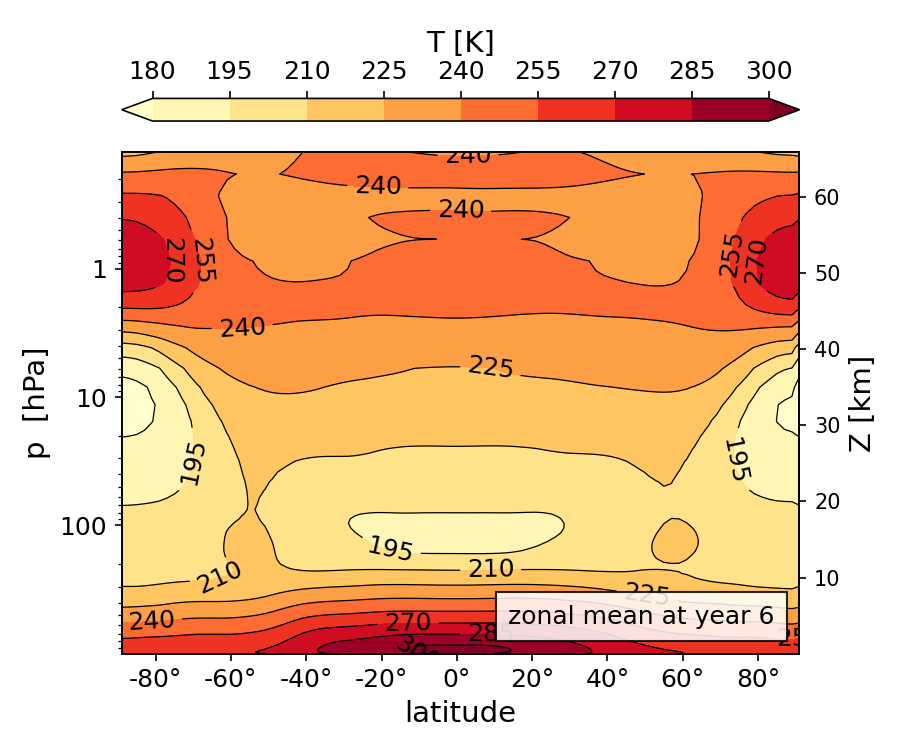
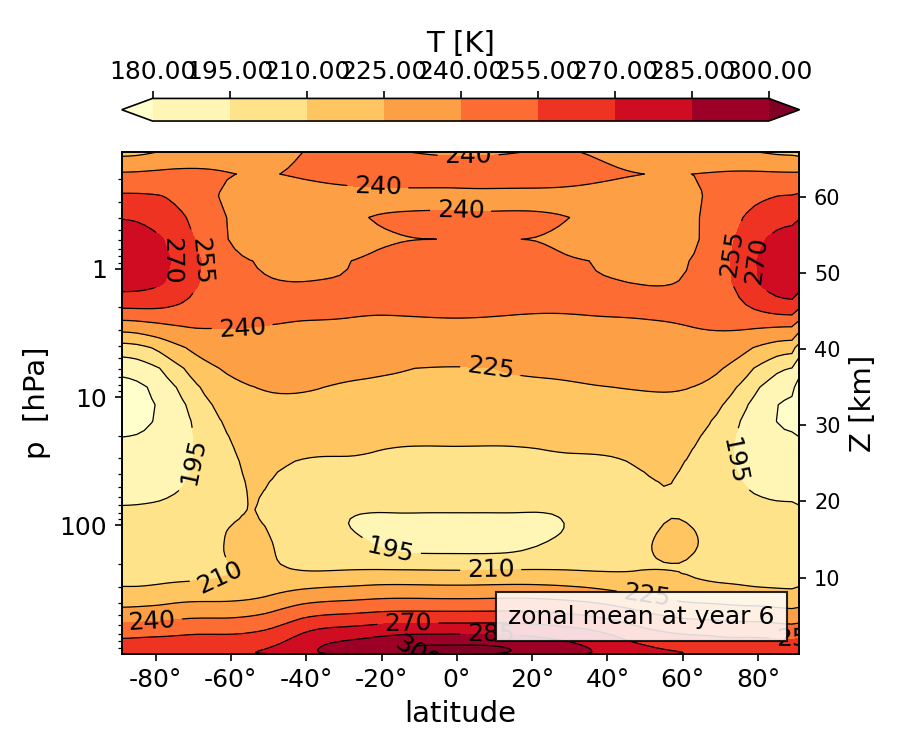
new figs for HSW circulation mean

Changed region(s): [[0.1244, 0.0613, 0.9022, 0.1227]]

diff --git a/CLDERA/SAI/analysis/circulation.py b/CLDERA/SAI/analysis/circulation.py
@@ -76,11 +76,11 @@ def circulation_snapshot(runf, tsnap, title, ttitle=None, maketitle=True,
 
     # ---------- plot ----------
     data_crs = ccrs.PlateCarree()
-    Tlev = np.linspace(180, 300, 9)
+    Tlev = np.linspace(180, 300, 9).astype(int)
     
     #uleva = np.arange(0, np.max(U), 15)
     #ulev = np.hstack([-uleva[1:][::-1], uleva])
-    ulev = np.hstack([np.linspace(-30, 0, 6), np.linspace(15, 75, 5)])
+    ulev = np.hstack([np.linspace(-30, 0, 6), np.linspace(15, 75, 5)]).astype(int)
     divnorm=colors.TwoSlopeNorm(vcenter=0.)
     
     #cmap = claut.ncar_rgb_to_cmap(gmt)
@@ -100,27 +100,31 @@ def circulation_snapshot(runf, tsnap, title, ttitle=None, maketitle=True,
     figT = plt.figure(figsize=(6,5))
     axT = figT.add_subplot(111)
 
+    if(tismean):
+        annot = 'mean from year 5-10'
+    else:
+        annot = 'zonal mean at year 5'
+
     # ----- vertical
-    
     pltargs = {'levels':ulev, 'cmap':cmap_u, 'zorder':0, 'norm':divnorm}
     pltargs_c = {'levels':ulev, 'colors':'k', 'linewidths':0.6, 'zorder':1, 'norm':divnorm}
-    cArgs = {'orientation':'horizontal', 'location':'top', 'label':'U [m/s]', 'aspect':30}
+    cArgs = {'orientation':'horizontal', 'location':'top', 'label':'U [m/s]','aspect':30,'format':'%d'}
     cArgs_c = {'fmt':'%d'}
     var_dict = [{'var':U, 'plotType':'contourf', 'plotArgs':pltargs, 'colorArgs':cArgs}]
     var_dict_c = [{'var':U, 'plotType':'contour', 'plotArgs':pltargs_c, 'colorArgs':cArgs_c}]    
     cf = pltvert(lat, lev, var_dict, ax=axu, plot_zscale=True,
-                 annotation='zonal mean at year 6', annotation_alph=0.85, annotation_loc='lower right')
+                 annotation=annot, annotation_alph=0.85, annotation_loc='lower right')
     pltvert(lat, lev, var_dict_c, ax=axu, plot_zscale=False, inverty=False, annotation='', xlabel='')
     cf[0].set_ticks(ulev)
     
     pltargs = {'levels':Tlev, 'cmap':cmap_T, 'zorder':0}
     pltargs_c = {'levels':Tlev, 'colors':'k', 'linewidths':0.6, 'zorder':1}
-    cArgs = {'orientation':'horizontal', 'location':'top', 'label':'T [K]', 'aspect':30}
+    cArgs = {'orientation':'horizontal', 'location':'top', 'label':'T [K]', 'aspect':30, 'format':'%d'}
     cArgs_c = {'fmt':'%d'}
     var_dict = [{'var':T, 'plotType':'contourf', 'plotArgs':pltargs, 'colorArgs':cArgs}]
     var_dict_c = [{'var':T, 'plotType':'contour', 'plotArgs':pltargs_c, 'colorArgs':cArgs_c}]    
     cf = pltvert(lat, lev, var_dict, ax=axT, plot_zscale=True, 
-                 annotation='zonal mean at year 6', annotation_alph=0.85, annotation_loc='lower right')
+                 annotation=annot, annotation_alph=0.85, annotation_loc='lower right')
     pltvert(lat, lev, var_dict_c, ax=axT, plot_zscale=False, inverty=False, annotation='', xlabel='')
     cf[0].set_ticks(Tlev)
 
@@ -146,6 +150,7 @@ def circulation_snapshot(runf, tsnap, title, ttitle=None, maketitle=True,
     if(savedest is not None):
         fig.savefig('{}/{}_t{}_U.png'.format(savedest, title, tsnap), dpi=150)
         figT.savefig('{}/{}_t{}_T.png'.format(savedest, title, tsnap), dpi=150)
+        plt.show()
     else: 
         plt.show()
         
@@ -184,14 +189,28 @@ if(__name__ == '__main__'):
     #circulation_snapshot(whs_spinup, [0,60], 'SE ne30L72, CAM HSW', whsdest, inclTracers=False)
 
     # SPINUP FOR IMPROVED WHS TOP RUNS
-    whs_improved_initfiles = sorted(glob.glob('/global/cscratch1/sd/jhollo/E3SM/E3SMv2_cases/'\
-                                      'hsw_validate_cases/E3SM_ne16_L72_FIDEAL_10year_spinup_withNewTeq/'\
-                                      'run/*eam.i*regrid.2x2.nc'))[::-1]
-    dest = '/global/homes/j/jhollo/repos/climate_analysis/CLDERA/SAI/analysis/figs/updated_whs_apole'
-    for i in range(len(whs_improved_initfiles)):
-        initfile = whs_improved_initfiles[i]
-        year = int(initfile.split('-')[0].split('.')[-1])
-        if(year != 5): continue
-        circulation_snapshot(initfile, 0, 'SE_ne16pg2_L72_EAM_HSW_newTeq', maketitle=False, 
-                             ttitle='year{}'.format(year), savedest=dest, inclTracers=False)
+    if(1):
+        whs_improved_initfiles = sorted(glob.glob('/global/cscratch1/sd/jhollo/E3SM/E3SMv2_cases/'\
+                                                  'hsw_validate_cases/E3SM_ne16_L72_FIDEAL_10year_'\
+                                                  'spinup_withNewTeq/run/*eam.i*regrid.2x2.nc'))[::-1]
+        dest='/global/homes/j/jhollo/repos/climate_analysis/CLDERA/SAI/analysis/figs/updated_whs_apole'
+        
+        for i in range(len(whs_improved_initfiles)):
+            initfile = whs_improved_initfiles[i]
+            year = int(initfile.split('-')[0].split('.')[-1])
+            if(year != 5): continue
+            circulation_snapshot(initfile, 0, 'SE_ne16pg2_L72_EAM_HSW_newTeq', maketitle=False, 
+                                 ttitle='year{}'.format(year), savedest=dest, inclTracers=False)
     
+    # TIME MEAN OF SPINUP FOR IMPROVED WHS TOP RUNS
+    if(1):
+        avg_file = '/global/cscratch1/sd/jhollo/E3SM/E3SMv2_cases/hsw_validate_cases/'\
+                   'E3SM_ne16_L72_FIDEAL_10year_spinup_withNewTeq/run/'\
+                   'E3SM_ne16_L72_FIDEAL_10year_spinup_withNewTeq.eam.h0.0001-01-01-00000'\
+                   '.nc.regrid.2x2.nc'
+        dest='/global/homes/j/jhollo/repos/climate_analysis/CLDERA/SAI/analysis/figs/updated_whs_apole'
+        
+        circulation_snapshot(avg_file, [int(360*3), int(360*10)], 
+                             'SE_ne16pg2_L72_EAM_HSW_newTeq_avg', maketitle=False, 
+                             ttitle='', inclTracers=False, savedest=dest)
+        

diff --git a/climate_artist.py b/climate_artist.py
@@ -26,7 +26,7 @@ tick_fs = 12
 def vertical_slice(x, y, var_dict, ax, plot_zscale=True, inverty=True, logy=True, center_x=None,
                    xlabel=None, ylabel=None, title=None, xlim=None, ylim=None, gridlines=False, 
                    gridlinesArgs=None, cyclic=True, annotation=None, annotation_loc='lower left', 
-                   annotation_alph=1, annotation_bbox=None):
+                   annotation_alph=1, annotation_bbox=None, no_yticklabs=False, no_xticklabs=False):
     '''
     Plot the 2D vertical slice of a variable
 
@@ -121,7 +121,7 @@ def vertical_slice(x, y, var_dict, ax, plot_zscale=True, inverty=True, logy=True
                     'contourf' :  {'levels':12, 'cmap':'rainbow','extend':'both'},
                     'clabel'   :  {'inline':True, 'fmt':'%.0f', 'fontsize':tick_fs},
                     'colorbar' :  {'ax':ax, 'location':'right', 'orientation':'vertical',
-                                   'extend':'both', 'extendrect':False, 'format':'%.0f'},
+                                   'extend':'both', 'extendrect':False, 'format':'%.2f'},
                     'gridlines':  {'draw_labels':True, 'dms':True, 'x_inline':False, 'y_inline':False, 
                                    'color':'k', 'lw':0.3, 'alpha':0.5, 'xformatter':aut.LON_DEG_FORMATTER}
                    }
@@ -190,9 +190,12 @@ def vertical_slice(x, y, var_dict, ax, plot_zscale=True, inverty=True, logy=True
     for i in range(len(var_dict)):
         if(cyclic):
             d['var'], xcyc = add_cyclic_point(d['var'], coord=x, axis=1)
-    x = xcyc
+    if(cyclic):
+        x = xcyc
     
     if(center_x is not None):
+        assert cyclic, 'cannot shift x-axis with arg center_x if cyclic=False'
+
         # recenter on center_x in degrees, assuming periodicity in x
         xcen = x - center_x  # shifted coords only used to find rolling index
         shift_right, shift_left = False, False
@@ -255,6 +258,8 @@ def vertical_slice(x, y, var_dict, ax, plot_zscale=True, inverty=True, logy=True
     if(ylim is not None): ax.set_ylim(ylim)
     if(xlabel != ''): ax.set_xlabel(xlabel, fontsize=label_fs)
     if(ylabel != ''): ax.set_ylabel(ylabel, fontsize=label_fs)
+    if(no_yticklabs): ax.yaxis.set_ticklabels([])
+    if(no_xticklabs): ax.xaxis.set_ticklabels([])
     ax.set_title(title, fontsize=label_fs)
     ax.tick_params(axis='both', which='major', labelsize=tick_fs)
     
@@ -264,8 +269,7 @@ def vertical_slice(x, y, var_dict, ax, plot_zscale=True, inverty=True, logy=True
     ax.xaxis.set_major_formatter(aut.LON_DEG_FORMATTER)
     
     if(gridlines):
-        ax.gridlines(draw_labels=True, dms=True, x_inline=False, y_inline=False, 
-                     color='k', lw=0.3, alpha=0.75)
+        ax.grid(color='k', lw=0.3, alpha=0.75)
     if(plot_zscale):
         ylimz = ctb.ptoz(ax.get_ylim()).m/1000
         axz = ax.twinx()
@@ -286,7 +290,7 @@ def horizontal_slice(x, y, var_dict, ax, projection=ccrs.Robinson(),
                      xlabel=None, ylabel=None, title=None, xlim=None, ylim=None, 
                      gridlines=True, gridlinesArgs=None, coastlines=True, coastlinesArgs=None, 
                      cyclic=True, annotation=None, annotation_loc='lower right', 
-                     annotation_alpha=1, annotation_bbox=None):
+                     annotation_alpha=1, annotation_bbox=None, no_yticklabs=False, no_xticklabs=False):
     '''
     Plot the 2D horizontal slice of a variable
 
@@ -378,7 +382,7 @@ def horizontal_slice(x, y, var_dict, ax, projection=ccrs.Robinson(),
             'contourf'  :  {'levels':12, 'cmap':'rainbow', 'extend':'both', 'transform':transform},
             'clabel'    :  {'inline':True, 'fmt':'%.0f', 'fontsize':tick_fs},
             'colorbar'  :  {'ax':ax, 'orientation':'vertical', 'extend':'both', 
-                            'extendrect':False, 'format':'%.0f'},
+                            'extendrect':False, 'format':'%.2f'},
             'gridlines' :  {'draw_labels':True, 'dms':True, 'x_inline':False, 'y_inline':False, 
                             'color':'k', 'lw':0.5, 'alpha':0.5, 'linestyle':':', 'crs':transform,
                             'xformatter':aut.LON_DEG_FORMATTER},
@@ -497,6 +501,8 @@ def horizontal_slice(x, y, var_dict, ax, projection=ccrs.Robinson(),
     if(ylim is not None): ax.set_ylim(ylim) 
     if(xlabel != ''): ax.set_xlabel(xlabel, fontsize=label_fs)
     if(ylabel != ''): ax.set_ylabel(ylabel, fontsize=label_fs)
+    if(no_yticklabs): ax.yaxis.set_ticklabels([])
+    if(no_xticklabs): ax.xaxis.set_ticklabels([])
     if(gridlines):
        gl = ax.gridlines(**gridlinesArgs)
        gl.xlabels_top = False
@@ -510,4 +516,5 @@ def horizontal_slice(x, y, var_dict, ax, projection=ccrs.Robinson(),
     ax.set_ylabel(ylabel, fontsize=label_fs)
     ax.set_title(title, fontsize=label_fs)
     ax.tick_params(axis='both', which='major', labelsize=tick_fs)
+
     return cf

diff --git a/CLDERA/SAI/analysis/vis_plume_column.py b/CLDERA/SAI/analysis/vis_plume_column.py
@@ -217,6 +217,9 @@ if(z_figure):
     m_analytic_100, _, zk_100, V_100, t = compute_tracer_evolution(100, analytic_only=True)
     m_analytic_8, _, zk_8, V_8, _ = compute_tracer_evolution(8, analytic_only=True)
     m_analytic_e3sm, _, zk_e3sm, V_e3sm, _ = compute_tracer_evolution('e3sm', analytic_only=True)
+    A = 17*1e9*u.kg/(9*3600*u.s * np.sum(V_e3sm))
+    dmdt = A * V_e3sm
+    pdb.set_trace()
     #zk = xr.open_dataset('data/E3SM_Z3_HSyr6_horzAvg.nc')['Z3']
     #zk = sorted(zk.values) * u(zk.units)
     #m_analytic_e3sm, _, zk_e3sm, V_e3sm, _ = compute_tracer_evolution(np.sum(np.logical_and(zk>12*u.km, zk<35*u.km)), analytic_only=True)
